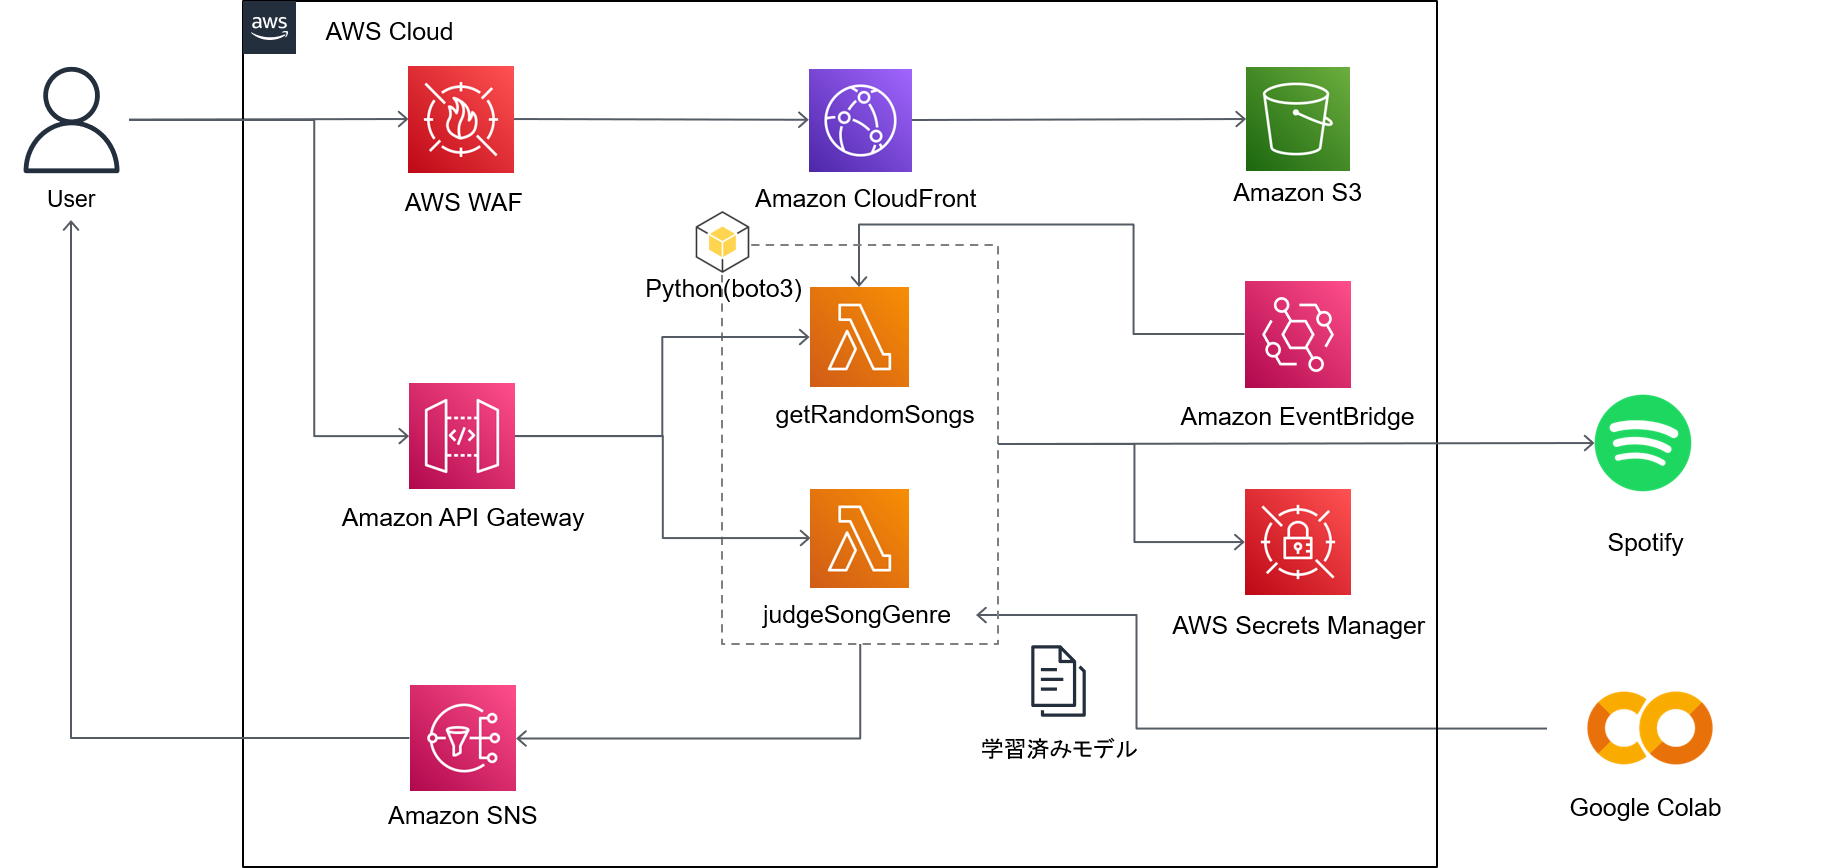
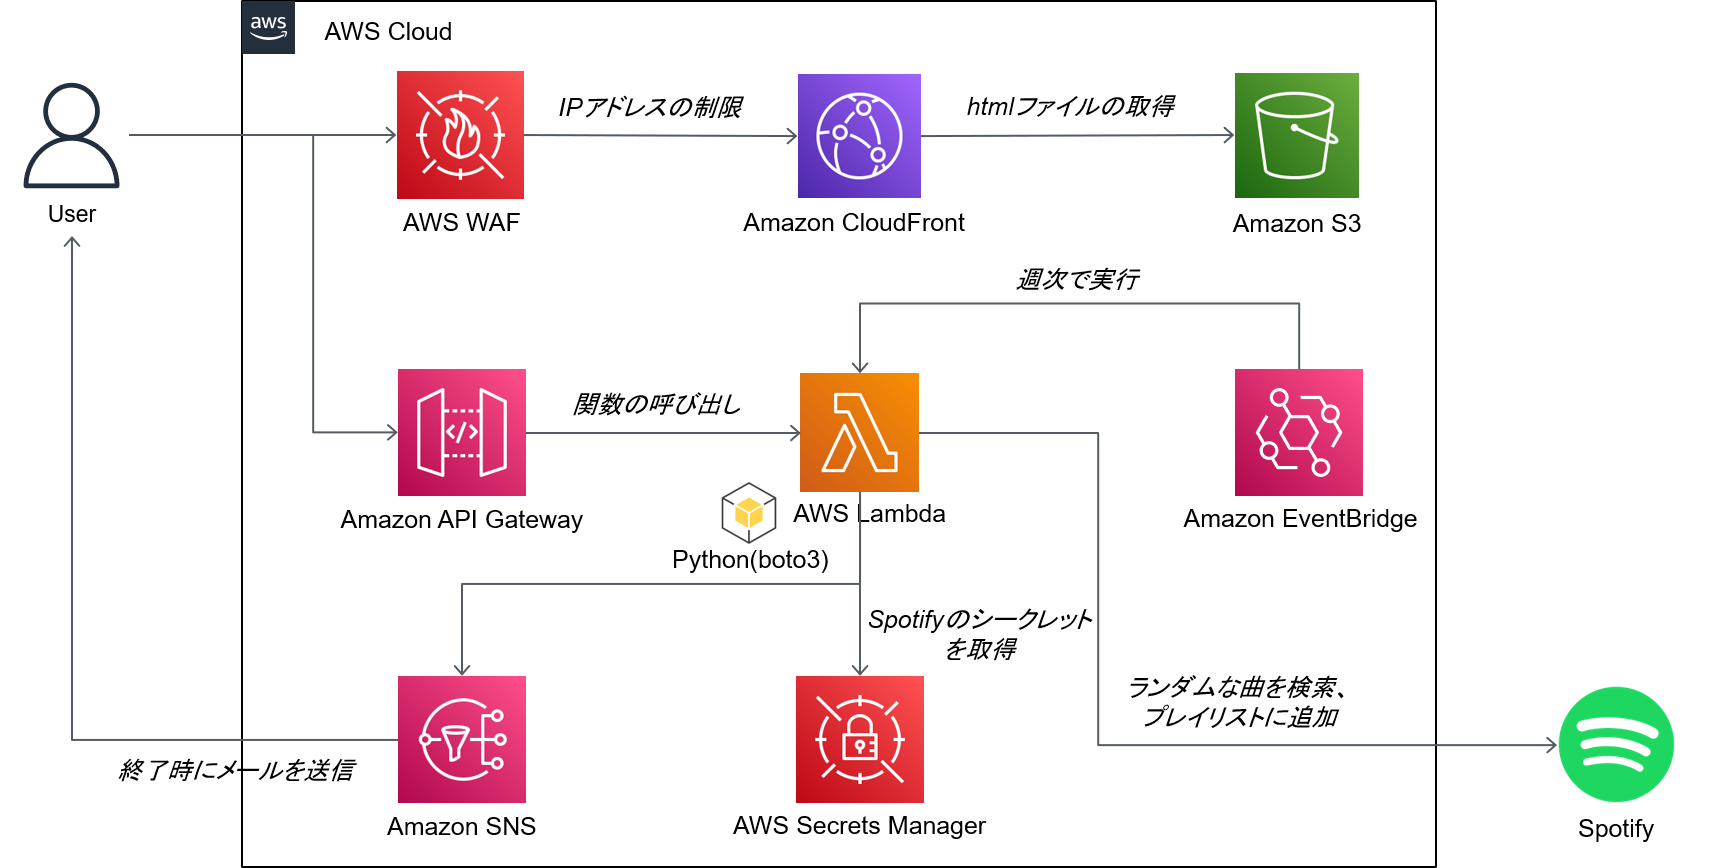
modified some files

diff --git a/lib/frontend-stack.ts b/lib/frontend-stack.ts
@@ -58,7 +58,6 @@ export class FrontendStack extends cdk.Stack {
     });
 
     //Define a WebACL
-    //L2 construct is not available:2022/12/31
     const CfnWebACL = new wafv2.CfnWebACL(this, "CfnWebACL", {
       defaultAction: {
         block: {}
@@ -103,9 +102,16 @@ export class FrontendStack extends cdk.Stack {
     });
 
     // Define an APIGateway REST API
-    const apiGateway = new apigw.RestApi(this, "apiGateway", {})
+    const apiGateway = new apigw.RestApi(this, "apiGateway", {
+      restApiName: "diggin-in-the-crates"
+    });
 
-    // Add method request to execute Lambda function asynchronously
+    // Add method request to execute Lambda function (sync)
+    apiGateway.root.addResource('sync').addMethod(
+      "POST",
+      new apigw.LambdaIntegration(props.lambdaFunc))
+
+    // Add method request to execute Lambda function (async)
     apiGateway.root.addResource('async').addMethod(
       "POST",
       new apigw.LambdaIntegration(props.lambdaFunc, {
@@ -120,8 +126,6 @@ export class FrontendStack extends cdk.Stack {
         integrationResponses: [
           {
             statusCode: "202",
-            //TODO
-            //responseParameters: {}
           }
         ]
       }),
@@ -137,7 +141,7 @@ export class FrontendStack extends cdk.Stack {
     this.APIEndpoint = new cdk.CfnOutput(this, "APIEndpoint", {
       value: apiGateway.url,
       exportName: "APIEndpoint",
-    })
+    });
 
     // Generate html content
     const fileName = "./webcontent/index.html";
@@ -153,9 +157,6 @@ export class FrontendStack extends cdk.Stack {
         s3deploy.Source.data(
           "/index.html",
           htmlContent),
-        s3deploy.Source.data(
-          "/sent.html",
-          fs.readFileSync("./webcontent/sent.html", "utf8")),
       ],
       destinationBucket: websiteBucket,
       distribution: distribution,

diff --git a/lib/backend-stack.ts b/lib/backend-stack.ts
@@ -1,6 +1,6 @@
 import * as cdk from "aws-cdk-lib";
 import { Construct } from "constructs";
-import { Rule, Schedule } from "aws-cdk-lib/aws-events";
+import { Rule, RuleTargetInput, Schedule } from "aws-cdk-lib/aws-events";
 import { LambdaFunction } from "aws-cdk-lib/aws-events-targets";
 import { Topic } from "aws-cdk-lib/aws-sns";
 import { EmailSubscription } from "aws-cdk-lib/aws-sns-subscriptions";
@@ -28,6 +28,7 @@ export class BackendStack extends cdk.Stack {
 
     topic.addSubscription(new EmailSubscription(props.emailAddress));
 
+    // Store secret values for Secret Manager
     const secret = new secretsmanager.Secret(this, "secret", {
       generateSecretString: {
         secretStringTemplate: JSON.stringify(secretValue),
@@ -65,7 +66,7 @@ export class BackendStack extends cdk.Stack {
       handler: "invoke.handler",
       layers: [lambdaLayer],
       role: lambdaRole,
-      timeout: cdk.Duration.minutes(15),
+      timeout: cdk.Duration.minutes(10),
       environment: {
         TOPIC_ARN: topic.topicArn,
         SECRET_ARN: secret.secretArn,
@@ -79,12 +80,12 @@ export class BackendStack extends cdk.Stack {
     const ruleToInvokeLambda = new Rule(this, "ruleToInvokeLambda", {
       schedule: Schedule.cron({
         minute: "0",
-        hour: "0",
-        month: "*",
-        year: "*",
+        hour: "15",
         weekDay: "L",
       }),
-      targets: [new LambdaFunction(lambdaFunc)],
+      targets: [new LambdaFunction(lambdaFunc, {
+        event: RuleTargetInput.fromObject({ track_num: '1' }),
+      })],
     });
   }
 }

diff --git a/lib/pipeline-stack.ts b/lib/pipeline-stack.ts
@@ -28,8 +28,9 @@ export class SpotipyPipelineStack extends cdk.Stack {
                     'npm run build',
                     'npx cdk synth'
                 ]
-            }
-            )
+                },
+            ),
+            selfMutation: false,
         });
 
         //Adds deploy stage 
@@ -44,7 +45,7 @@ export class SpotipyPipelineStack extends cdk.Stack {
                     ENDPOINT_URL: deploy.APIEndpoint
                 },
                 commands: [
-                    'curl -Ssf $ENDPOINT_URL'
+                    'curl -X POST --data-urlencode "track_num=1" "${ENDPOINT_URL}async"'
                 ]
             })
         )

diff --git a/webcontent/index.html b/webcontent/index.html
@@ -12,8 +12,7 @@
             <input name="track_num" id="track_num" value="1">
         </div>
         <div>
-            <input type="submit" onclick="location.href='./sent.html'" value="Execute process">
-            <!--input type="submit" onclick="location.href='../sent.html'" value="Execute process" -->
+            <input type="submit" value="Execute process">
         </div>
     </form>
     <!--a href="APIEndpoint">Press here to execute process</a -->

diff --git a/bin/spotipy.ts b/bin/spotipy.ts
@@ -23,8 +23,7 @@ const backend = new BackendStack(app, `${pjPrefix}BackendStack`, {
 const frontend = new FrontendStack(app, `${pjPrefix}FrontendStack`, {
     lambdaFunc: backend.lambdaFunc,
     ipAddress: ipAddress
-});
-
+})
 frontend.addDependency(backend); 
 
 // For pipeline deployment

diff --git a/lambda/invoke.py b/lambda/invoke.py
@@ -1,27 +1,33 @@
 import traceback
 import json
-import main 
+import main
 from common import send_email
 import sys
-import base64
-import urllib.parse
 from urllib.parse import parse_qs
 import io
+
 
 def handler(event, context):
     try:
         # Refer to the spotipy_lambda.py to get information of options.
         # Output values of console into string variable
         with io.StringIO() as console_log:
+
             sys.stdout = console_log
-            # Parse JSON strings
-            request_body=parse_qs(event['body'])
-            main.diggin_in_the_crate(int(request_body['track_num'][0]))
+
+            if 'track_num' in event:
+                # Get parameter from EventBridge
+                main.diggin_in_the_crate(int(event['track_num'][0]))
+            elif 'body' in event:
+                # Parse body of POST request from APIgateway
+                request_body = parse_qs(event['body'])
+                main.diggin_in_the_crate(int(request_body['track_num'][0]))
+
             log_value = console_log.getvalue()
             sys.stdout = sys.__stdout__
 
         send_email(log_value)
-            
+
         return {
             'isBase64Encoded': False,
             'statusCode': 200,
@@ -36,4 +42,3 @@ def handler(event, context):
             'headers': {},
             'body': json.dumps({"result": "An error occured", "error_message": error_message})
         }
-

diff --git a/lambda/common.py b/lambda/common.py
@@ -9,9 +9,11 @@ import json
 
 scope = 'playlist-read-private playlist-modify-public'
 
+
 def authenticate(local_test_flag=False):
-    """Execute authentication on process spotify.
+    """Execute authentication process on spotify.
     """
+
     secret = get_secret(local_test_flag)
 
     token = util.prompt_for_user_token(
@@ -21,8 +23,12 @@ def authenticate(local_test_flag=False):
 
     return sp
 
+
 def get_secret(local_test_flag=False):
     """Get secrets values from AWS Secrets Manager.
+
+    Args:
+        local_test_flag (bool, optional): Secret values are obtained from local json file when it's True. Defaults to False.
     """
 
     if local_test_flag == True:

diff --git a/lambda/main.py b/lambda/main.py
@@ -5,6 +5,7 @@ import argparse
 import random
 import os
 
+# For local testing
 local_test_flag = True
 
 # Unflag local testing flag when runnig on AWS environment
